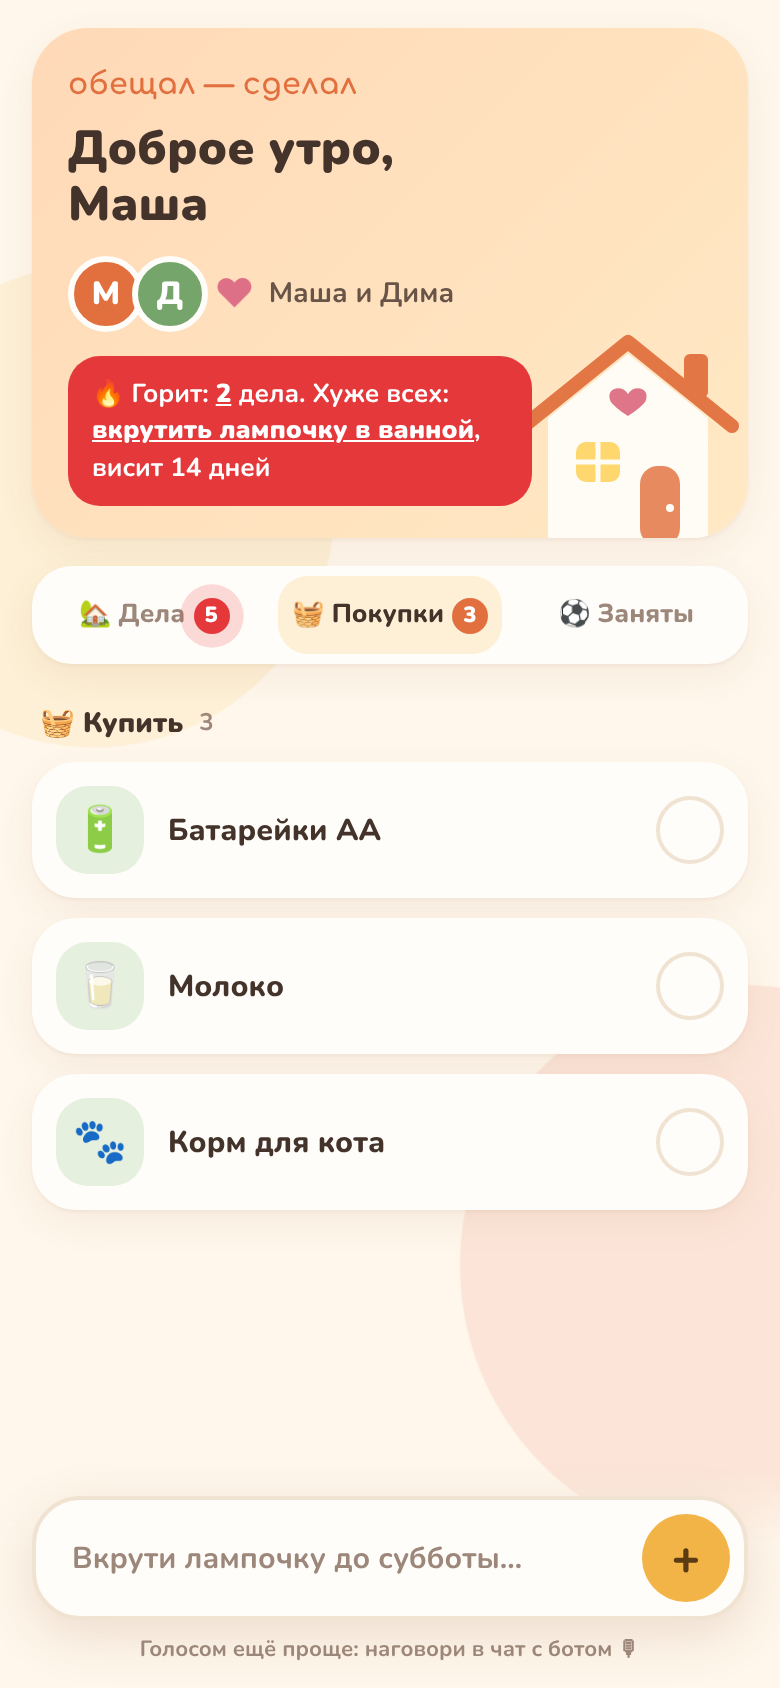
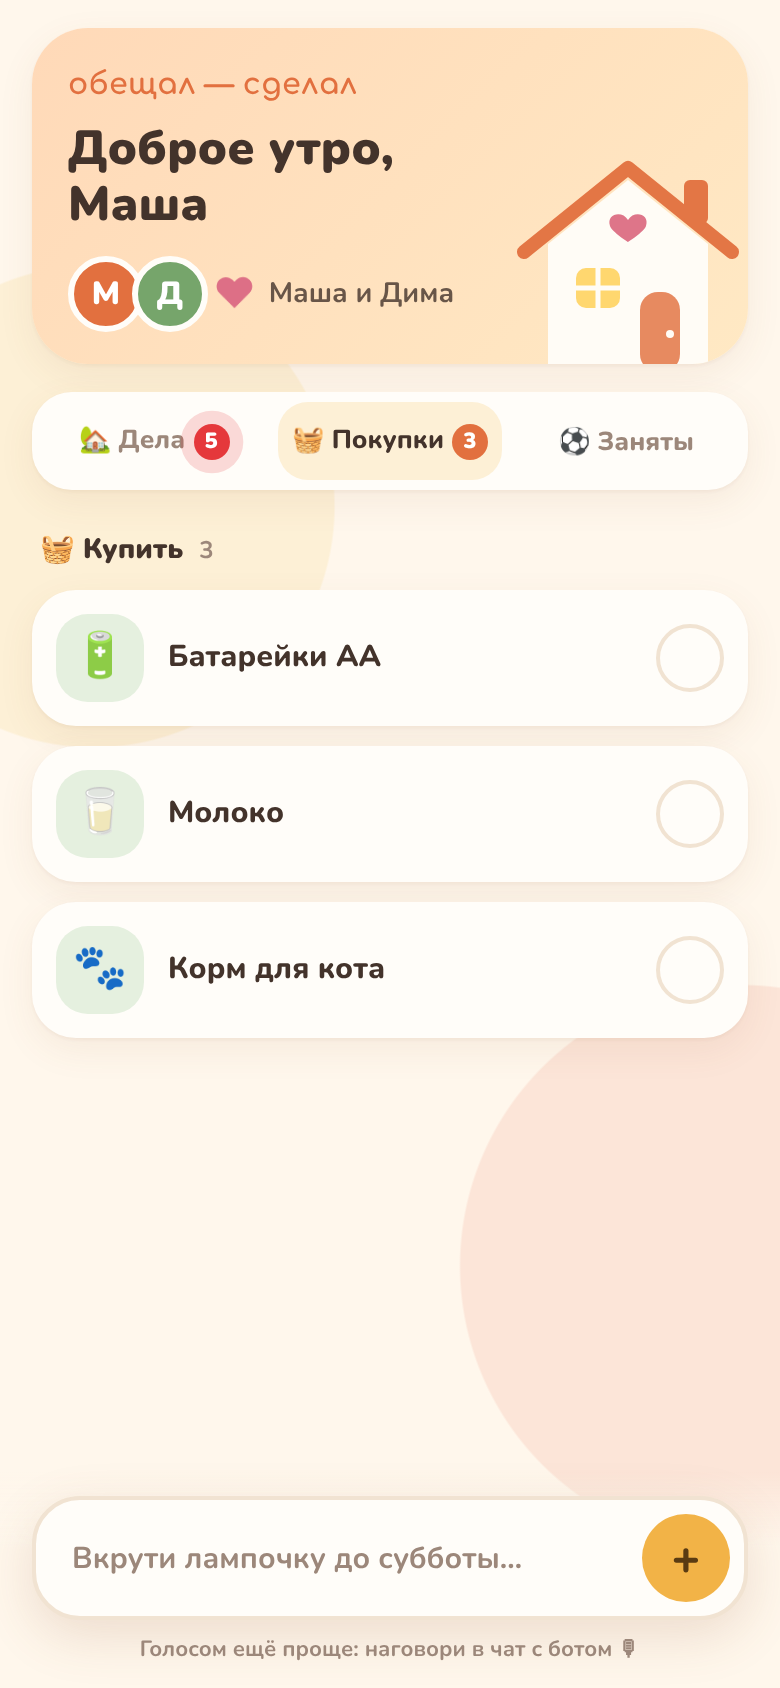
Мини-приложение: «ГОРИТ» только блоком в списке, шапка с домиком без тревоги
Claude-Session: https://claude.ai/code/session_01K4WBGGq4fEqRaNC21ns6ax

diff --git a/webapp/index.html b/webapp/index.html
@@ -254,9 +254,8 @@ function render(){
   const hot = S.items.filter(i => i.hot);
   const hanging = S.items.filter(i => i.kind === "task" && /^висит/.test(i.when || ""))
                          .sort((a, b) => parseInt(b.when.slice(6)) - parseInt(a.when.slice(6)))[0];
-  $("oldest").innerHTML = hot.length
-    ? `<div class="oldest alarm">🔥 Горит: <b>${hot.length}</b> ${hot.length === 1 ? "дело" : hot.length < 5 ? "дела" : "дел"}. Хуже всех: <b>${esc(hot[0].text.toLowerCase())}</b>, ${esc(hot[0].when)}</div>`
-    : hanging ? `<div class="oldest">🐌 Дольше всех ждёт: <b>${esc(hanging.text.toLowerCase())}</b>, ${esc(hanging.when)}</div>` : "";
+  // The house stays calm: overdue is shown once, as the «ГОРИТ» block in the list.
+  $("oldest").innerHTML = hanging && !hanging.hot ? `<div class="oldest">🐌 Дольше всех ждёт: <b>${esc(hanging.text.toLowerCase())}</b>, ${esc(hanging.when)}</div>` : "";
   $("invite").innerHTML = (!p && S.invite) ? `<div class="invite"><p>Позови свою половину, иначе напоминать будет некому. Бот уже точит сарказм 😏</p><button class="btn" id="share">Позвать</button></div>` : "";
   if ($("share")) $("share").onclick = () => {
     const url = "https://t.me/share/url?url=" + encodeURIComponent(S.invite) + "&text=" + encodeURIComponent("Давай вести наш семейный планер 🏡");
@@ -275,9 +274,9 @@ function render(){
                busy:["🛋","Все дома, никто не занят.<br>Например: «по четвергам у меня футбол»."]}[tab];
     html = `<div class="empty"><div class="big">${e[0]}</div>${e[1]}</div>`;
   } else if (tab === "tasks") {
-    // Overdue stays in its owner's group, but goes first and glares red.
-    const cold = [...items].sort((x, y) => (y.hot ? 1 : 0) - (x.hot ? 1 : 0));
-    html = group("Твои дела", cold.filter(i => i.assignee === me.id), dot(me.name, "--terra"))
+    const cold = items.filter(i => !i.hot);
+    html = group("ГОРИТ", items.filter(i => i.hot), "🔥", "hot")
+         + group("Твои дела", cold.filter(i => i.assignee === me.id), dot(me.name, "--terra"))
          + (p ? group(`Дела: ${p.name}`, cold.filter(i => i.assignee === p.id), dot(p.name, "--sage")) : "")
          + group("Вместе", cold.filter(i => i.assignee == null), `<span class="dot" style="background:var(--rose)">♥</span>`);
   } else if (tab === "busy") {
